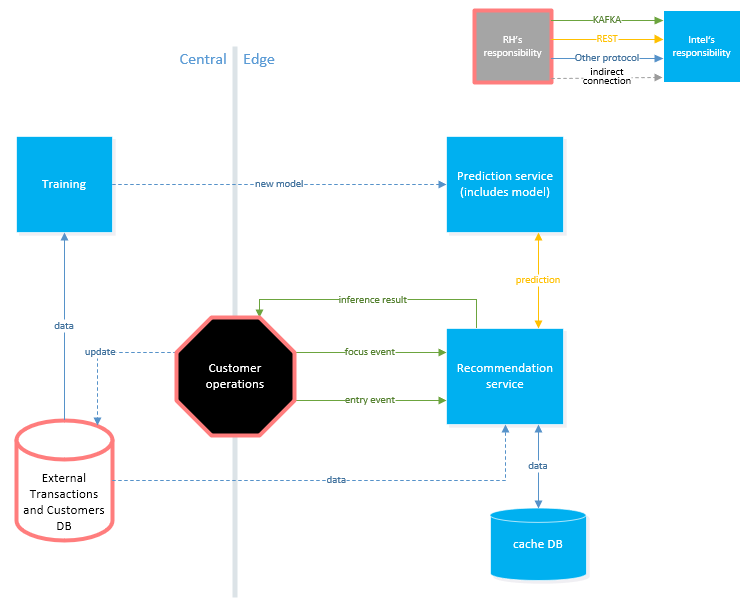
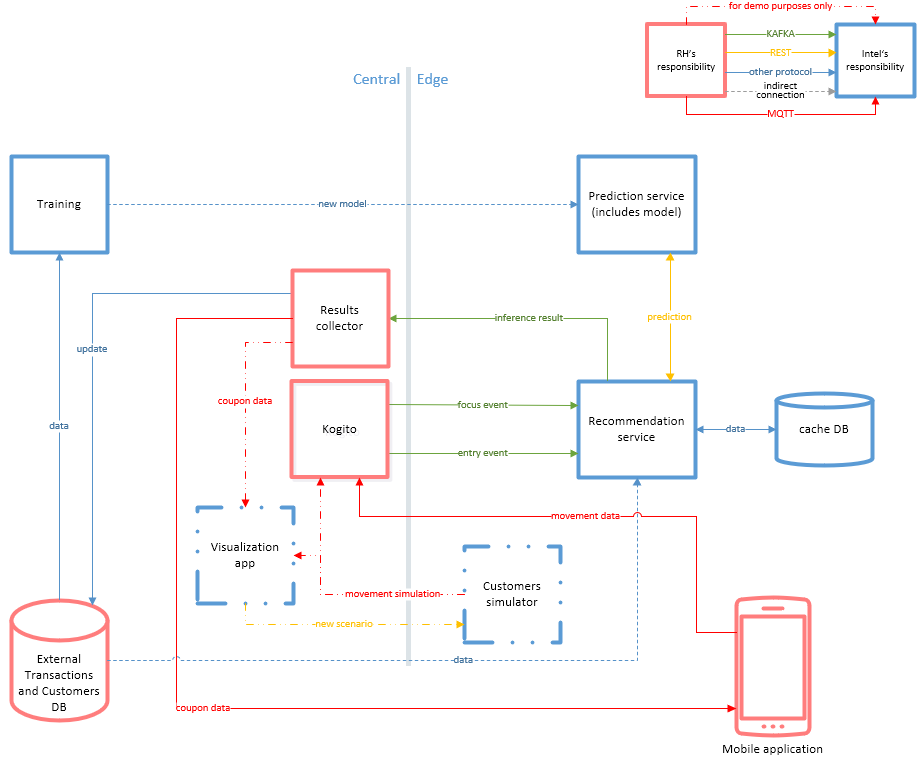
Documentation update

diff --git a/README.md b/README.md
@@ -4,6 +4,10 @@
 
 ![Solution basic diagram](documentation/images/basic_diagram.png)
 
+### Training
+
+The training part is made in the jupyter notebooks using Intel DAAL libraries.
+
 ### Prediction service
 
 Prediction service handles the model.
@@ -23,3 +27,11 @@ The result of the prediction is pushed to Kafka.
 
 Check [Recommendation service README](recommendation-service/README.md) for details.
 Kafka topics description and schema can also be found there.
+
+### Visualization app
+
+The application was made for demo purposes. [More details int app's README](visualization-app/README.md).
+
+### Customers simulator
+
+This simulator was made for demo purposes. See more details in the [README file](scenario-player/README.md)
